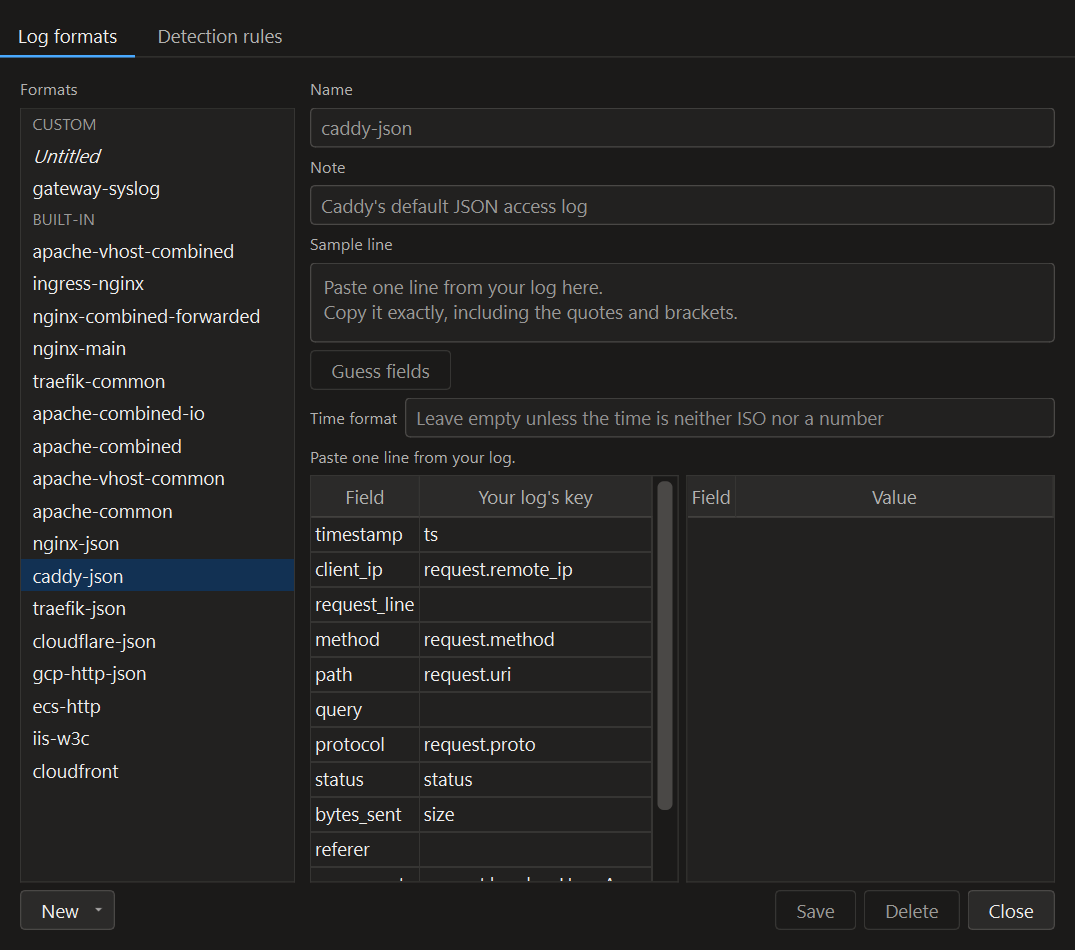
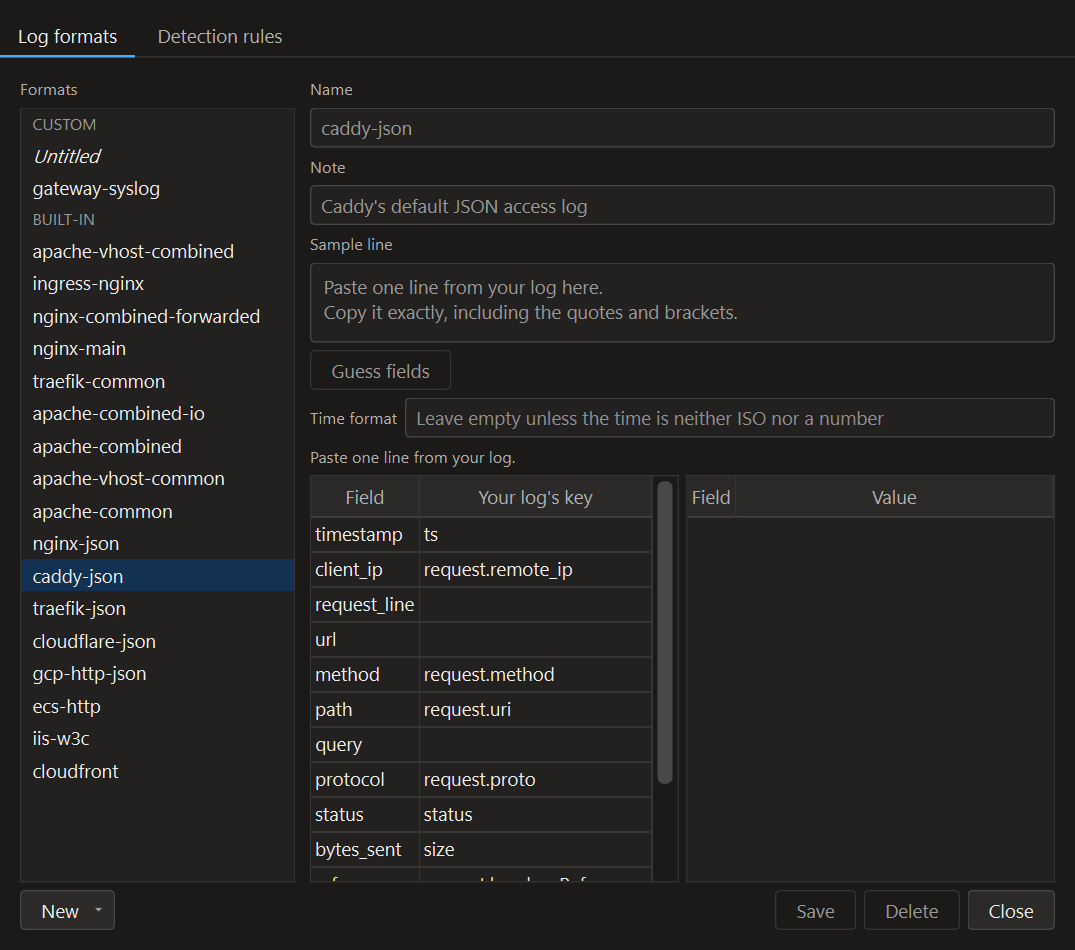
docs: a query inside a path, a whole URL, and a client's port
docs/log-formats.md says how a JSON, table or pattern format reads a path holding its query, a url field, and a client written with a port, and why a bare IPv6 address is left as written. CHANGELOG records the four built-ins that missed their queries and what that cost on the shopfront excerpt. The format library picture is retaken: the mapping table has a url row.

Changed region(s): [[0.3991, 0.6716, 0.5219, 0.9158], [0.2763, 0.6716, 0.3684, 0.9158], [0.614, 0.8242, 0.6447, 0.8547]]

diff --git a/CHANGELOG.md b/CHANGELOG.md
@@ -994,6 +994,28 @@ which will be the first tag.
 
 ### Fixed
 
+- **Caddy, Traefik, Cloudflare and Google Cloud JSON logs read their queries.**
+  Caddy's `request.uri`, Traefik's `RequestPath` and Cloudflare's
+  `ClientRequestURI` hold the query inside the path, and Google's `requestUrl`
+  holds a whole URL. These four built-ins read all of it as the path, so no rule
+  that reads the query ever saw one. The cost, measured on the shopfront excerpt's
+  own traffic with its queries left in the path:
+  - 4 SSRF attempts read as ordinary requests or as path traversal;
+  - 6 requests changed category in all;
+  - 135 rule matches were lost.
+
+  The earlier test samples carried a bare path, so nothing noticed. Now:
+  - A mapped path is split at its `?`, as a request line is.
+  - A new mappable field, `url`, reads a whole URL as host, path and query, and
+    `gcp-http-json` uses it.
+  - A client written with an unambiguous port (`10.0.0.1:80`, which Google's
+    `remoteIp` may be) is read as the address, so one visitor stays one client.
+  - Caddy and Traefik now record the Referer.
+  - The Caddy and Traefik samples are now lines those servers wrote, captured
+    in Docker.
+
+  A test reads one request in ten formats and requires the same path and query
+  from each.
 - **A search no longer cuts the client list's Last date.** A search adds a
   Match column, and at the default window the client panel had no room for
   it: Last read `15…` on every row. The panel now opens at 480 px instead of

diff --git a/docs/log-formats.md b/docs/log-formats.md
@@ -95,6 +95,14 @@ or bracket, spaces included, and may be empty. An unquoted header or variable
 If it ends the line, it reads to the end of it. None of this narrows a field:
 a line the plain reading accepts is read exactly as before.
 
+In a JSON, table or pattern format, a field mapped to `path` that also holds the
+query (`/search?q=oak`) is split at the `?`, the way a request line is. A field
+mapped to `url` is a whole URL, such as Google's `requestUrl`, and is read as its
+host, path and query. A client written with a port it cannot be confused with,
+`203.0.113.5:51234` or `[2001:db8::1]:443`, is read as the address alone, and the
+port is kept beside the event. A bare IPv6 address is left as written, since
+`2001:db8::1:443` could end in a port or in its own last group.
+
 A time format naming no year is **refused** rather than accepted: `strptime`
 supplies 1900 for a missing year, and a case where every event is dated 1900 is
 exactly the kind of number this tool exists not to emit.
